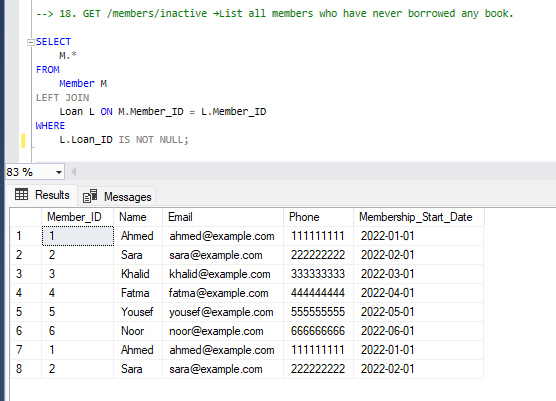
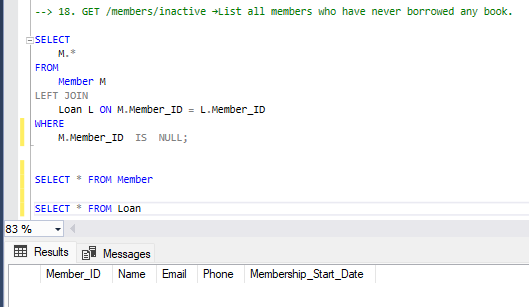
upload all

Changed region(s): [[0.0, 0.0, 1.0, 1.0]]

diff --git a/READMEFile.md/LibraryManagementSystem DBProjectPart2.md b/READMEFile.md/LibraryManagementSystem DBProjectPart2.md
@@ -30,6 +30,7 @@
  6. GET /members/inactive → List members with no loans
 
       ![](SelectQueriesImage/Q6.png)
+ 
 
 
  7. GET /payments/summary → Total fine paid per member
@@ -79,6 +80,7 @@
  18. GET /members/inactive →List all members who have never borrowed any book.
  
         ![](SelectQueriesImage/Q18.png)
+  
  
   19. GET /books/never-loaned → List books that were never loaned
   
@@ -104,6 +106,11 @@
  
         ![](SelectQueriesImage/Q24.png)
 
+ 25. GET /reviews/top-rated → Return books with more than 5 reviews and average rating > 4.5.
+  
+        ![](SelectQueriesImage/Q25.png)
+  1. 
+  
 
 
 
